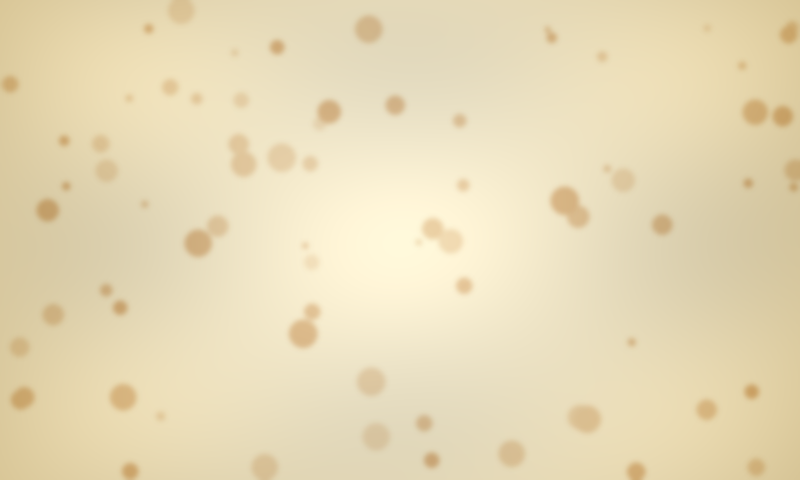
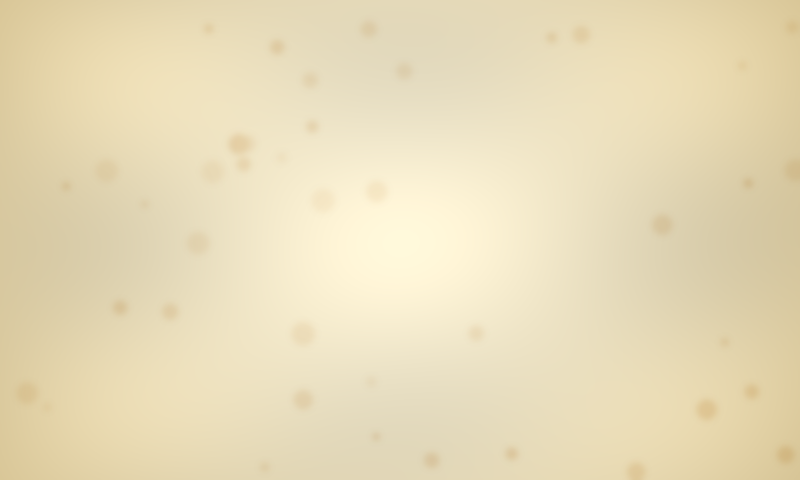
letter: knock out a clean writing area so the script isn't blurry; refresh previews
The aged-paper plate scattered R+G foxing across the whole sheet, including
behind the thin Dancing Script body — the speckle surrounded every stroke
and read as blurry. Fix it the way the other plate themes do:

- Thread clear_rect into draw_letter_border (enrol letter in
  _CLEAR_RECT_PADS) and reset the writing-area rect to a clean pale-cream
  bed (foxing removed, feathered edges, no drawn frame) so the script reads
  crisply. The bed cream is ~6% yellow to match the plate's pale centre, so
  the edge melts into the foxed margins instead of reading as a yellow panel.
- Soften the plate's foxing (sparser, gentler sepia) so the margins read as
  gentle aging rather than an aggressive red/green field.

Docs/previews:
- Regenerate the letter preview and add a grimdark preview + README theme-
  table row (grimdark had no preview/row); refresh the regenerate-previews
  loop to include the recent themes.
- Document the letter writing-area knockout in CLAUDE.md.

https://claude.ai/code/session_01Dp4uiyBV5DsCdFJzkch94B

diff --git a/idle_hours/render_quote.py b/idle_hours/render_quote.py
@@ -11455,7 +11455,8 @@ def _letter_paint_aged_paper(image: Image.Image, width: int, height: int, page_b
                     pixels[px, py] = sepia_a if (px + py) & 1 else sepia_b
 
 
-def draw_letter_border(image: Image.Image, colors: dict) -> None:
+def draw_letter_border(image: Image.Image, colors: dict,
+                       clear_rect: tuple[int, int, int, int] | None = None) -> None:
     """Wax-sealed letter decoration: aged, lightly-crumpled paper ground +
     fold/crumple creases + a pressed oxblood / maroon wax seal in the
     bottom-right corner.
@@ -11535,6 +11536,31 @@ def draw_letter_border(image: Image.Image, colors: dict) -> None:
     else:
         _letter_paint_aged_paper(image, width, height, page_bg, cream_light, sepia_a, sepia_b, rng)
     pixels = image.load()
+
+    # ---- Body-text writing area: clean cream knockout -----------------
+    # The plate scatters R+G foxing across the whole sheet; behind the thin
+    # Dancing Script body that speckle surrounds every stroke and reads as
+    # blurry. When render() threads ``clear_rect`` through, reset that rect to
+    # a clean cream wash (white + a light yellow stipple, no foxing) — the
+    # written area a real letter keeps clear of age spots — feathered at the
+    # edges so it blends into the foxed margins instead of cutting a hard
+    # rectangle. The fold creases and body text paint on top. Same single-call
+    # clear_rect-knockout dispatch ``kanagawa`` / ``cartograph`` / ``anna_atkins``
+    # use, here resetting to cream rather than the panel ground.
+    if clear_rect is not None and page_bg is not None:
+        cx0, cy0, cx1, cy1 = clear_rect
+        feather = 16
+        for py in range(max(0, cy0), min(height - 1, cy1) + 1):
+            for px in range(max(0, cx0), min(width - 1, cx1) + 1):
+                edge_d = min(px - cx0, cx1 - px, py - cy0, cy1 - py)
+                # Feathered border ring: clean with probability rising toward
+                # the interior so the writing area melts into the foxed margin.
+                if edge_d < feather and ((px * 131 + py * 57) % 16) / 16.0 >= edge_d / feather:
+                    continue
+                # ~1/16 yellow (≈6%), matching the plate's pale-cream centre so
+                # the cleaned bed/writing-area tone melts into the surrounding
+                # paper and only the removed foxing distinguishes it.
+                pixels[px, py] = cream_light if BAYER_4x4[py & 3][px & 3] == 0 else page_bg
 
     # ---- Crumple creases ----------------------------------------------
     # Two primary fold creases at the thirds (the folds that put a letter
@@ -11631,7 +11657,10 @@ def draw_letter_border(image: Image.Image, colors: dict) -> None:
                         if ((px * 131 + py * 57) % 16) / 16.0 < keep:
                             pixels[px, py] = page_bg
                     continue
-                pixels[px, py] = cream_light if BAYER_4x4[py & 3][px & 3] < 0.09 * 16 else page_bg
+                # ~1/16 yellow (≈6%), matching the plate's pale-cream centre so
+                # the cleaned bed/writing-area tone melts into the surrounding
+                # paper and only the removed foxing distinguishes it.
+                pixels[px, py] = cream_light if BAYER_4x4[py & 3][px & 3] == 0 else page_bg
 
     # (1) Soft cast shadow on the paper. A stippled disc offset down-right
     # (away from the light), densest at its centre and fading to nothing at
@@ -17651,6 +17680,11 @@ def render(time_str: str, quote_row: dict, width: int, height: int, mode: str = 
         # framed by a doubled white plate rule + corner pin-dots; the 20/12/12
         # pad keeps that rule and the rounded corners clear of the white text.
         "anna_atkins": (20, 12, 12),
+        # letter knocks the writing area back to clean cream (no foxing) so the
+        # thin Dancing Script body doesn't blur against the plate's foxing
+        # speckle; a generous 26/18/18 pad leaves clean margin around the text
+        # even after the 16 px feathered edge, with no drawn frame.
+        "letter": (26, 18, 18),
     }
     if theme in _CLEAR_RECT_PADS and quote_line_boxes:
         clear_pad_x, clear_pad_top, clear_pad_bottom = _CLEAR_RECT_PADS[theme]
@@ -17700,6 +17734,12 @@ def render(time_str: str, quote_row: dict, width: int, height: int, mode: str = 
         # photogram + ferns + labels, then knocks the body rect back to a deep
         # Prussian-blue panel so the white quote text reads over the plate.
         draw_anna_atkins_border(image, colors, clear_rect=clear_rect)
+    elif theme == "letter":
+        # Same single-call dispatch — the letter painter pastes the dithered
+        # aged-paper plate, knocks the writing area back to clean cream so the
+        # thin script reads without foxing speckle, then paints creases + the
+        # wax seal on top.
+        draw_letter_border(image, colors, clear_rect=clear_rect)
     else:
         _paint_theme_border(image, theme, colors)
 

diff --git a/scripts/generate_letter_plate.py b/scripts/generate_letter_plate.py
@@ -77,14 +77,18 @@ def _foxing(img: Image.Image, rng: random.Random) -> None:
     w, h = img.size
     stain = Image.new("L", (w, h), 0)
     sd = ImageDraw.Draw(stain)
-    n = rng.randint(60, 90)
+    # Sparse, soft foxing — a gentle aging at the margins, not a dense speckle.
+    # The body-text writing area is knocked back to clean cream at render time,
+    # so the foxing only needs to texture the borders; keeping it light stops
+    # the margins reading as an aggressive red/green field around the quote.
+    n = rng.randint(34, 48)
     for _ in range(n):
         fx = int(rng.triangular(0, w - 1, rng.choice((0, w - 1))))
         fy = int(rng.triangular(0, h - 1, rng.choice((0, h - 1))))
-        fr = rng.randint(3 * SS, 14 * SS)
-        strength = rng.randint(40, 120)
+        fr = rng.randint(3 * SS, 12 * SS)
+        strength = rng.randint(28, 80)
         sd.ellipse((fx - fr, fy - fr, fx + fr, fy + fr), fill=strength)
-    stain = stain.filter(ImageFilter.GaussianBlur(radius=2.5 * SS))
+    stain = stain.filter(ImageFilter.GaussianBlur(radius=3.0 * SS))
     px = img.load()
     sp = stain.load()
     # Sepia direction: pull green and (more) blue down, leave red high → warm
@@ -94,12 +98,12 @@ def _foxing(img: Image.Image, rng: random.Random) -> None:
             s = sp[x, y]
             if not s:
                 continue
-            a = min(1.0, s / 160.0)
+            a = min(1.0, s / 200.0)
             r, g, b = px[x, y]
             px[x, y] = (
-                max(120, int(r - 35 * a)),
-                max(90, int(g - 70 * a)),
-                max(60, int(b - 95 * a)),
+                max(140, int(r - 28 * a)),
+                max(110, int(g - 55 * a)),
+                max(80, int(b - 80 * a)),
             )
 
 

diff --git a/CLAUDE.md b/CLAUDE.md
@@ -563,7 +563,7 @@ Imports `pick_quote` in-process (`pick_quote_module.select_quote`) and lays out 
   - `outrun` (black ground / white Oxanium body / synthesised-cyan matched-phrase, **1980s synthwave / Outrun sunset** — the ninth theme to bypass the literary layout entirely, dispatching from `render` into its own `render_outrun_frame`. The "neon" counterpart to the cool digital themes (`nightvision` terminal-green, `chrono` JRPG-blue): where those are screens, outrun is a *poster*. Composition layers (deepest → shallowest): (1) `_outrun_paint_sky` — a two-zone per-row Bayer **density-ramp gradient** giving a continuous deep-indigo-navy zenith (blue + a heavy black wash) → pure blue mid-sky → red-leaning **magenta horizon** (blue + red, red capped at 0.36 so it stays a blue-leaning violet rather than tipping into fire-engine red — red out-luminates blue, so an even mix reads hot); the zone seam is placed exactly where the navy ramp reaches pure blue (black density 0) so it's continuous. All the *warm* colour is reserved for the sun, keeping the quote's white-on-cool contrast high. Plus ~70 deterministic white stars (`_OUTRUN_STAR_SEED`) confined to the dark upper sky above the sun cap. (2) `_outrun_paint_grid` — the dark near-black ground (faint-blue Bayer specks) carries the iconic **neon perspective grid**: magenta verticals fanning from a central vanishing point on the horizon and cyan horizontals marching toward the foot with perspective spacing (y = horizon + span·t², so lines pack near the horizon), plus a bright white horizon line with a cyan under-glow. PIL has no per-pixel line colour, so each grid line is plotted via an integer **Bresenham** point list (`_outrun_line_points`) and coloured per-pixel — verticals alternate red/blue (→ magenta), horizontals alternate green/blue (→ cyan) — so the two-tone neon reads solid at panel distance while staying entirely on the Spectra-6 palette. (3) `_outrun_paint_sun` — the **sliced retrowave half-sun**: the disc centre (`_OUTRUN_SUN_CENTER`) sits *below* the horizon so only the upper cap shows as rising from behind the grid; the visible cap carries a yellow→tangerine→magenta-foot vertical gradient mapped across its *visible* height (golden crown via R+Y at density 0.60, tangerine body via the documented R+Y 5/8:3/8 recipe, magenta foot via R+B melting back into the sky), sliced by horizontal **slits** (left unpainted so the sky shows through) that *widen toward the horizon* — the canonical sliced-sun silhouette. (4) `_outrun_paint_quote` — the literary quote floats in the dark upper sky (`_OUTRUN_QUOTE_RECT`) in solid white Oxanium, centred line-by-line via the shared `fit_quote` / `wrap_styled_text` pipeline, with the matched time-phrase painted as a 50/50 green+blue **cyan** stipple (`draw_text_dithered`) — the classic neon accent — while the body stays solid white for maximum legibility on the navy ground. (5) `_outrun_paint_credits` — author (white) + `— title —` (cyan) below the quote in the condensed Antonio poster-credit face the other custom frames reuse, in the clear sky band between the quote and the rising sun. Like `questline` / `chrono` / `marquee`, the digital HH:MM is **never surfaced** — the matched phrase carries the time; `time_str` is `del`-asserted at the top of `render_outrun_frame`. Every raw PixelAccess write is bounds-clipped so the `/api/preview` thumbnail path (down to ~60 px tall) crops the lower composition rather than raising — same defensive pattern as the chrono / diags frames. Fully deterministic (the only RNG is the seeded star field) so re-renders of a given time are byte-identical. Body face is **Oxanium** (Sev Meyer, OFL — a techno / cyberpunk display sans whose squared geometric terminals read as period-correct 1980s retro-future; variable Weight axis, so the matched-phrase `quote_bold` role pins the Bold instance for a real weight step on top of the cyan accent). Deliberately chosen over the more famous **Orbitron** — Orbitron is the canonical synthwave face but is too wide to hold a dense 200-char literary quote at a legible size across a room, whereas Oxanium's narrower proportions keep long lines readable while preserving the neon-future silhouette. Saturation tier `0.7` (black ground — the neon tones need the dark-ground push). Stays in the button-B / auto / random rotation. No `_DEBUG_LABEL_RIGHT_INSET` entry — custom frame, ignores `mode`.)
   - `grimdark` (black void ground / bone-white Cinzel Decorative body / forge-amber matched-phrase / gold Imperial trim, **Warhammer-40K-esque Imperial Gothic** — "in the grim darkness of the far future." A literary-layout theme (not a custom-render frame) with a heavy `draw_grimdark_border` decoration, the militaristic-cathedral / gothic-industrial register of the 40K Imperium. The matched time phrase's red accent is rerouted in `_draw_text_body` to **forge-amber** (R+Y 5/8:3/8 tangerine via the shared 4×4 Bayer threshold — the documented `deco` / `atomic` / `astrarium` recipe) so the time glows like molten metal / a hazard stripe against the black bulkhead, tying it to the gold Imperial trim; a 50/50 R+Y would read as washed-out amber because yellow out-luminates red, so the 3/8 yellow bias drags the perceived hue back onto the warm forge-orange. The oversized opening/closing quote marks render in **gold** blackletter — both `ornament` THEMES slots pin to yellow so `draw_faux_gray_text` collapses to solid gilt (same trick `gothic` uses with red — on the black ground a white `ornament_light` half would wash the gilt to grey). `draw_grimdark_border` lays the rest of the vocabulary on top using solid Spectra-6 inks via ImageDraw primitives only (so it clips silently at `/api/preview` thumbnail sizes rather than indexing a raw `PixelAccess` past the canvas): a **Layer-0 industrial gunmetal plate** (a committed continuous-tone weathered-metal PNG — `idle_hours/assets/grimdark_gunmetal.png`, produced by `scripts/generate_grimdark_plate.py`: a dark charcoal vignette + seeded oxidation blotches that lighten (scuffed/oxidised plate) or darken (grime/shadow) + faint diagonal scratches — Floyd–Steinberg-dithered at render time to the **white+black** sub-palette via `_load_dithered_plate`, so the bulkhead breaks into an organic white-on-black stipple whose local density tracks the metal's tone, the K+W inverse of the cream Y+W washes other themes paint on white grounds; the second consumer of the render-time image-dithering capability `anna_atkins` introduced. Spectra 6 has no grey ink, so the dither *is* how gunmetal exists on the panel. Painted first so the trim / ornaments / quote text all land on top. If the asset is missing, `_grimdark_paint_mottle` synthesises the equivalent — sparse ~4.5% organic white hash-scatter (NOT an ordered Bayer grid, which would read as a regular dot-screen) + seeded lighten/darken blotches — as a deterministic graceful fallback); a **doubled imperial trim** (thick gold outer rule + thin blood-red inner rule, the polychrome banded frame of an ornate reliquary / starship bulkhead hatch — distinct from `gothic`'s red+white doubled rule and `illuminated`'s single-ink doubled rule); a gold **Imperial Aquila** (the double-headed eagle, the single most recognisable Imperium device — a torso diamond, twin outward-facing beaked heads, and two swept wings whose serrated lower edge reads as splayed flight feathers) centred in the top margin; a **Mechanicus cog-skull** (a bone-white skull set inside a gold toothed gear ring — the literal icon of the Adeptus Mechanicus machine-priesthood — flanked by two smaller ossuary skulls) centred in the bottom margin via the `_grimdark_cog` / `_grimdark_skull` helpers; **riveted bulkhead seams** (a vertical column of small gold rivets down each side rail with two embedded Mechanicus cog nodes per side — the servitor / machine-corridor texture, kept in the narrow x≈25 side band well clear of the centred quote column); **corner rivets** (gold hex-bolt discs with a blood centre at the four inner corners — armour-plate fastenings); and **mid-edge studs** (small blood diamonds riveted onto the gold side rules). The Aquila is centred horizontally (clear of the right-aligned `DEBUG MODE` banner) and the trim's right rule leaves ~7 px of clearance (same as `newsprint`), so `grimdark` is intentionally absent from `_DEBUG_LABEL_RIGHT_INSET` — same exemption as `atomic` / `dispatch`. Visually distinct from the rotation's two existing black/white/red themes: `gothic` is an EB-Garamond body + Unifraktur matched phrase under a cathedral-tracery border, and `roman` is Cinzel-everywhere on a white ground with no blackletter — neither shares grimdark's Cinzel-body + Unifraktur-ornament + Aquila/skull/rivet silhouette. Saturation tier `0.7` (dark non-white ground).)
   - `anna_atkins` (deep Prussian-blue cyanotype ground / ghostly white algae-photogram silhouettes / white Libre Caslon Text body / sky-blue matched phrase, **Anna Atkins 1843 botanical cyanotype** — *Photographs of British Algae: Cyanotype Impressions*, the first book ever illustrated with photographs. **The theme that introduces the repo's render-time image-dithering capability** (`dither_image_to_palette` + `_load_dithered_plate`): rather than synthesising every graphic from ImageDraw primitives, a committed *continuous-tone* PNG (`idle_hours/assets/anna_atkins_cyanotype.png`, produced by `scripts/generate_anna_atkins_plate.py`) is Floyd–Steinberg-dithered down to the inks at render time, giving photographic tonal fidelity on the 6-colour panel — the deep blues break into a blue/black stipple, the feathered specimen edges melt through a blue+white "sky-blue" haze, and the bright cores stay white. A literary-layout theme (not a custom-render frame) with a heavy `draw_anna_atkins_border` painter threaded through the `clear_rect`-knockout dispatch the same way `kanagawa` / `cartograph` / `circuit` are. (The committed plate is an *original work in the cyanotype idiom* rather than a museum scan: Atkins's photographs are public domain, but the historical scans live behind image hosts the build environment can't reach, and the point of the asset is to exercise the dithering path, which needs real continuous-tone content — drop a genuine scan in at the same path and it dithers identically. The plate is dithered against only the **white/black/blue** cyanotype sub-palette, not the full Spectra-6 set, so error diffusion can't scatter stray red/green specks across the deep blues; still a strict subset of SPECTRA6 so the final `snap_image_to_palette` is a no-op.) Layers, deepest → shallowest: (1) **Layer 0** — the full-bleed FS-dithered photogram (or, if the asset is missing, the flat blue `page_bg` deepened to Prussian via a blue→black Bayer stipple so the theme still renders); (2) **procedural white fern/algae sprigs** in the four corner margins — crisp 1 px ink-line accents (a curving rachis with pinnate leaflets via `_anna_atkins_fern`) layered over the soft photographic specimens; (3) **handwritten white Latin species labels** in copperplate (Pinyon Script — "Cystoseira fibrosa", "Ptilota plumosa", "Dictyota dichotoma"), slightly rotated and stamped *binary* (an L-mask rotated then pasted solid-white where opaque, so the rotated antialiased edges can't leave a blue halo after palette snapping) the way Atkins captioned each plate in her own hand; (4) a **thin white plate rule** at inset 12 (the mounting-sheet edge); (5) the **body-text knockout** — when `render` supplies `clear_rect`, a deep Prussian-blue rounded panel (solid blue + blue→black Bayer) with a doubled white plate rule and corner pin-dots, so the white quote text reads cleanly over the busy plate. The matched-phrase `accent` is a **yellow sentinel**, not a painted colour: `_draw_text_body` reroutes the matched-phrase yellow to a 50/50 blue+white **sky-blue** stipple (the documented `glacier` recipe), so the time phrase reads as a ghostly cyanotype element (paler, cooler, stippled) distinct from the crisp solid-white body rather than the warm yellow the sentinel would otherwise paint; the sentinel surfaces literally only in the debug-mode banner (yellow-on-blue, legible), the same accent-as-debug-banner pattern `firmament` uses on its navy ground. The oversized opening/closing quote marks render as the same sky-blue stipple (ornament_dark/light = blue/white via `draw_faux_gray_text`). Distinct from the rotation's other blue themes by construction: `blueprint` is a white-ground drafting grid with red registration marks, `glacier` is a white-ground frost-crystal treatment, and `firmament` is a navy *celestial* atlas — anna_atkins is the only *blue-ground photographic* theme. It was the first theme to dither a committed raster image; `grimdark` (white+black gunmetal plate) and `letter` (white/yellow/red/green aged-paper plate) now reuse the same `dither_image_to_palette` + `_load_dithered_plate` path for their Layer-0 backgrounds, each restricted to its own sub-palette and falling back to a synthesised stipple when the asset is absent. Saturation tier `0.7` (deep-blue non-white ground).)
-  - `letter` (cream/white aged-paper ground / black Dancing Script body / sealing-wax-red matched phrase, **wax-sealed handwritten letter** — a quote presented as intimate antique correspondence. A literary-layout theme with a `draw_letter_border` painter rather than a custom-render frame, so the standard fit/wrap/justify pipeline lays out the flowing-script body and the border decorates the margins underneath it. Layers: (1) **Layer-0 aged paper** — a committed continuous-tone aged-paper PNG (`idle_hours/assets/letter_aged_paper.png`, produced by `scripts/generate_letter_plate.py`: a warm cream base + edge-weighted tan vignette + low-frequency fibrous mottle + seeded reddish-brown foxing blobs) Floyd–Steinberg-dithered at render time to the **white/yellow/red/green** sub-palette via `_load_dithered_plate` — the cream body breaks into a W+Y stipple and the browned foxing regions mix R+G into the documented sepia recipe, the photographic-tone reuse of the dithering capability `anna_atkins` introduced (black + blue are excluded from the sub-palette so error diffusion can't scatter hard flecks into clean cream or drift the foxing cool — the crumple creases + wax seal supply their own black as primitives on top). If the asset is missing, `_letter_paint_aged_paper` synthesises the equivalent as a graceful fallback — an *uneven cream tan* (the documented Y+W yellow cream wash, density modulated by a gentle edge vignette + low-amplitude sine mottle + a fine per-pixel grain jitter, ≈9% yellow at centre rising to ≈14% at the margins) + *foxing* (a deterministic seeded scatter of small R+G sepia spots, each a 2×2/3×3 red/green checkerboard block so it averages to rust-brown, biased toward the edges). Either path yields pure Spectra-6 so palette-snap is a no-op. Then the crumple creases below. (2) **Crumple creases** — two horizontal fold creases at the page thirds (faint 1 px black stipple, the envelope folds) plus, **in the synthesised-fallback path only**, a few soft random-angle wrinkles rendered *tonally* (a thin cream ridge + a white highlight relief on the lit side, so they read as light catching a wrinkle rather than as black scratches); the wrinkles are skipped when the committed plate is in use because the plate already carries continuous-tone surface texture and a solid cream ridge over its W+Y stipple reads as a hard streak. All painted only on bare paper/cream and overpainted by the body text the way ink sits over a fold. (3) **The wax seal** in the bottom-right corner (the hero graphic): a pressed bead of dark **oxblood / maroon** wax rendered as a glossy dome lit from the upper-left, seated on a **clean cream bed** — a soft feathered disc knocked out behind the seal that wipes the plate's R+G foxing (leaving a light W+Y cream stipple, the same tone as the surrounding plate so the disc edge stays invisible, the rim thinning the foxing out gradually rather than cutting a hard circle) so the bead and its shadow sit on calm paper the way a pressed seal clears the fibre beneath it, rather than on the busy foxing speckle that otherwise reads as a noisy background around the bead. An irregular scalloped disc (two summed sinusoids vary the rim radius so it reads as hand-pressed wax, not a clean circle), shaded per-pixel via a Bayer ramp anchored on **maroon** (R+K) — pure red survives only on the lit shoulder, white dithers in for a coral gloss at the highlight, and black density climbs past 50% toward the rim so the core shadow deepens to near-black — plus a soft cast shadow stippled onto the paper (offset down-right, fading at its edge; painted on all four paper inks so it stays a coherent soft disc over foxed plate paper instead of leaving foxing specks poking through) and a solid-white specular hotspot, so the bead reads as a raised 3-D blob standing proud of the page. A ring of small beads just inside the rim (each shaded by its dome position — dark dot + a coral highlight on its lit side), and a recessed **hourglass emblem** carved into the centre — the time motif of the clock, each groove a maroon stroke with a coral bevel on its far inner wall so it reads as engraved into the wax — plus a couple of tiny maroon spatter flecks beside the seal for drip character. The seal sits at y≈height-78 / x≈width-72, clear of the centred attribution and the y=14-29 debug-banner band, so `letter` is intentionally absent from `_DEBUG_LABEL_RIGHT_INSET`. The matched time phrase is solid Spectra-6 red (Dancing Script Bold), echoing the seal's lit-red highlight — the one passage the correspondent pressed harder on. Same white/black/red palette shape as `default` / `dispatch` / `saloon` but the script body + fold creases + wax seal give it a wholly different silhouette. Fully deterministic so re-renders of a given time are byte-identical. Saturation tier `0.5`.)
+  - `letter` (cream/white aged-paper ground / black Dancing Script body / sealing-wax-red matched phrase, **wax-sealed handwritten letter** — a quote presented as intimate antique correspondence. A literary-layout theme with a `draw_letter_border` painter rather than a custom-render frame, so the standard fit/wrap/justify pipeline lays out the flowing-script body and the border decorates the margins underneath it. Layers: (1) **Layer-0 aged paper** — a committed continuous-tone aged-paper PNG (`idle_hours/assets/letter_aged_paper.png`, produced by `scripts/generate_letter_plate.py`: a warm cream base + edge-weighted tan vignette + low-frequency fibrous mottle + seeded reddish-brown foxing blobs) Floyd–Steinberg-dithered at render time to the **white/yellow/red/green** sub-palette via `_load_dithered_plate` — the cream body breaks into a W+Y stipple and the browned foxing regions mix R+G into the documented sepia recipe, the photographic-tone reuse of the dithering capability `anna_atkins` introduced (black + blue are excluded from the sub-palette so error diffusion can't scatter hard flecks into clean cream or drift the foxing cool — the crumple creases + wax seal supply their own black as primitives on top). If the asset is missing, `_letter_paint_aged_paper` synthesises the equivalent as a graceful fallback — an *uneven cream tan* (the documented Y+W yellow cream wash, density modulated by a gentle edge vignette + low-amplitude sine mottle + a fine per-pixel grain jitter, ≈9% yellow at centre rising to ≈14% at the margins) + *foxing* (a deterministic seeded scatter of small R+G sepia spots, each a 2×2/3×3 red/green checkerboard block so it averages to rust-brown, biased toward the edges). Either path yields pure Spectra-6 so palette-snap is a no-op. **Writing-area knockout:** when `render` threads `clear_rect` through (the standard literary path — `letter` is enrolled in `_CLEAR_RECT_PADS` at `(26, 18, 18)`), the body-text rect is reset to a clean pale-cream bed (≈6% yellow Bayer matching the plate's centre, foxing removed, feathered edges so it melts into the foxed margins with no drawn frame) so the thin Dancing Script body reads crisply instead of blurring against the plate's foxing speckle — the same `clear_rect`-knockout `kanagawa` / `cartograph` / `anna_atkins` use, here resetting to cream rather than a panel ground. Then the crumple creases below. (2) **Crumple creases** — two horizontal fold creases at the page thirds (faint 1 px black stipple, the envelope folds) plus, **in the synthesised-fallback path only**, a few soft random-angle wrinkles rendered *tonally* (a thin cream ridge + a white highlight relief on the lit side, so they read as light catching a wrinkle rather than as black scratches); the wrinkles are skipped when the committed plate is in use because the plate already carries continuous-tone surface texture and a solid cream ridge over its W+Y stipple reads as a hard streak. All painted only on bare paper/cream and overpainted by the body text the way ink sits over a fold. (3) **The wax seal** in the bottom-right corner (the hero graphic): a pressed bead of dark **oxblood / maroon** wax rendered as a glossy dome lit from the upper-left, seated on a **clean cream bed** — a soft feathered disc knocked out behind the seal that wipes the plate's R+G foxing (leaving a light W+Y cream stipple, the same tone as the surrounding plate so the disc edge stays invisible, the rim thinning the foxing out gradually rather than cutting a hard circle) so the bead and its shadow sit on calm paper the way a pressed seal clears the fibre beneath it, rather than on the busy foxing speckle that otherwise reads as a noisy background around the bead. An irregular scalloped disc (two summed sinusoids vary the rim radius so it reads as hand-pressed wax, not a clean circle), shaded per-pixel via a Bayer ramp anchored on **maroon** (R+K) — pure red survives only on the lit shoulder, white dithers in for a coral gloss at the highlight, and black density climbs past 50% toward the rim so the core shadow deepens to near-black — plus a soft cast shadow stippled onto the paper (offset down-right, fading at its edge; painted on all four paper inks so it stays a coherent soft disc over foxed plate paper instead of leaving foxing specks poking through) and a solid-white specular hotspot, so the bead reads as a raised 3-D blob standing proud of the page. A ring of small beads just inside the rim (each shaded by its dome position — dark dot + a coral highlight on its lit side), and a recessed **hourglass emblem** carved into the centre — the time motif of the clock, each groove a maroon stroke with a coral bevel on its far inner wall so it reads as engraved into the wax — plus a couple of tiny maroon spatter flecks beside the seal for drip character. The seal sits at y≈height-78 / x≈width-72, clear of the centred attribution and the y=14-29 debug-banner band, so `letter` is intentionally absent from `_DEBUG_LABEL_RIGHT_INSET`. The matched time phrase is solid Spectra-6 red (Dancing Script Bold), echoing the seal's lit-red highlight — the one passage the correspondent pressed harder on. Same white/black/red palette shape as `default` / `dispatch` / `saloon` but the script body + fold creases + wax seal give it a wholly different silhouette. Fully deterministic so re-renders of a given time are byte-identical. Saturation tier `0.5`.)
   - `sampler` (cream Aida-cloth ground / black-floss body / red-floss matched phrase, **counted cross-stitch embroidery sampler** — the most mechanically novel theme in the rotation and a custom-render frame (`render_sampler_frame`) that bypasses the literary layout like `questline` / `outrun` / `vitrail`. The defining trick, new to the codebase: **every glyph is rendered as cross-stitch "X" marks**. Text is wrapped and drawn to a small offscreen `"L"` mask in the **Silkscreen** pixel font (5px cap height at size 8, a clean fixed grid), then every set mask pixel is stamped via `_sampler_stitch_x` as a scaled-up `STITCH_PX×STITCH_PX` cell — two short diagonals — onto the cloth (the same "draw-to-mask → iterate mask pixels → write `px[x,y]`" pattern `draw_text_dithered` uses, so cost stays bbox/area-proportional, and every write is bounds-clipped for the `/api/preview` thumbnail path). The body fit loop (`_sampler_paint_quote`) tries stitch sizes 6→3 largest-first and picks the largest whose wrapped block fits the body rect — **layout happens in mask-pixel space (`body_w // size` virtual columns) and is scaled up at stitch time**, so short quotes render in chunky size-6 stitches and dense quotes auto-shrink. The matched time-phrase chunks are stitched in **red floss** (the time signal — no digital HH:MM is surfaced; `time_str` is `del`-asserted at frame entry); the body is black floss, the author·title credits (`_sampler_paint_credits`) are stitched smaller in blue/green floss as the sampler's signature line. Composition furniture, all built from the same stitch primitive: a clean **white Aida ground** with a faint regular yellow weave-grid (`_sampler_paint_aida` — a sparse 1-fleck-per-`WEAVE_PITCH` grid reads as woven cloth without over-tinting the ground; an earlier 1-in-8 Bayer cream wash over-yellowed it and crushed the black-floss contrast), a **stitched vine border** (`_sampler_paint_border` — alternating green-leaf / red-bud stitches around the frame with blue + yellow flower motifs at the corners and mid-edges, surfacing all four chroma inks), and classic **sampler motifs** (`_sampler_paint_motifs` — a red/yellow house, a heart, a bird, two trees in the lower margin) parsed from hardcoded character-grid templates via `_sampler_stamp_motif`. Fully deterministic (no RNG) so re-renders are byte-identical. Body / matched-phrase / ornament all in **Silkscreen** (Jason Kottke, OFL — Regular + Bold), the first stitch-mapped pixel face; distinct from the other two bundled pixel faces (Press Start 2P → questline, Pixelify Sans → chrono). Stays in the button-B / auto / random rotation (it shows a quote — only `diags` is in `RANDOM_EXCLUDED_THEMES`). Saturation tier `0.5` (cream/white ground).)
   - `circuit` (forest-green PCB soldermask / white silkscreen body / gold (yellow) copper matched-phrase, Space Mono — a printed-circuit-board composition: the literary clock rendered as if etched onto the very board that drives the eInk panel. A literary-layout theme (not a custom frame) with a heavy `draw_circuit_border` decoration threaded through the `clear_rect`-knockout dispatch the same way `kanagawa` / `cartograph` are. The flat Spectra-6 green `page_bg` is darkened by a **Layer-0 forest soldermask wash** — half the green pixels flipped to black on the `(x+y)&1` checkerboard → G+K 1:1 deep bottle-green FR-4 (the documented forest-green recipe `herbarium` / `vitrail` use), deliberately distinct from `atomic`, whose 1-in-4 white-on-green Layer 0 lightens the same flat green toward mint. The wash only flips *green* pixels, so it's idempotent across `render`'s two border-painter calls. Over the board: **gold copper traces** (Spectra-6 yellow) routed from the deterministic `_CIRCUIT_TRACES` polylines with rounded `joint="curve"` teardrop corners, hugging the perimeter margins; **plated pads** (gold annular ring + dark drilled centre) at every trace endpoint; **four corner mounting holes** (white silkscreen keep-out ring + dark drill, inset 28 px — the TR hole overlaps the y=14-29 banner band so `circuit` carries a `_DEBUG_LABEL_RIGHT_INSET` entry of 46); a **Y1 quartz-crystal component** (white outline + two pads + label) in the bottom-left margin — the literal timekeeping element on a real board, a quiet nod to what the appliance is; **silkscreen reference designators** (white, `R1`/`R2`/`C1`/`C4`/`U1`/`D2`) beside the pads; and an `IDLE HOURS · REV 2.0` board legend bottom-right. The `clear_rect` knockout resets the body region to clean forest soldermask — wiping any trace / pad / silk that routed across — and frames it with a thin white silkscreen "component outline" rounded rectangle + a pin-1 corner square, so the quote reads as a populated, labelled board section. The matched phrase renders in solid gold (yellow) — the highlighted copper net — and the oversized quote marks collapse onto solid gold (both ornament keys = yellow, the `atomic` / `gothic` trick) so they read as copper against the dark board rather than dithering pale. Space Mono carries the technical-silkscreen register (shared with `nightvision` — a mono is exactly the face a PCB's designators are set in). Saturation tier `0.7` (dark forest-green ground).)
 - **Fonts.** Typography is per-theme, and each non-default theme deliberately picks a face from a different type *family* so the rendered frame's silhouette changes with the theme — not just its palette. `THEME_FONTS` maps each `THEMES` entry to a dict with `quote_regular` / `quote_bold` / `ornament` candidate chains, each a list of path strings OR `(path, variation_name)` tuples. The tuple form targets variable fonts — `load_font` calls `set_variation_by_name(name)` after the truetype load, so e.g. the scholar theme picks Regular/Bold instances from a single variable `Bitter-Variable.ttf` (whose default axis instance is Thin — a missing variation call would render near-invisible hairlines on the panel). Every per-theme chain ends at the Playfair / DejaVu defaults so a missing-font install degrades to the default face instead of dropping to the PIL bitmap fallback. System metadata / debug strips always use DejaVu / Noto / Liberation Sans regardless of theme. Install `apt install fonts-noto-core fonts-dejavu-core` if the bundled fonts aren't found. When every TTF candidate is missing, `load_font` logs a one-shot warning to stderr before returning `ImageFont.load_default()` so a misconfigured install surfaces instead of silently producing an 8-pixel bitmap render.

diff --git a/README.md b/README.md
@@ -306,6 +306,7 @@ Forty-one themes ship built-in, all constrained to the Spectra 6 panel palette (
 | `outrun`      | <img src="idle_hours/assets/previews/outrun.png" width="240" alt="outrun theme preview">           | black       | white | cyan   | Oxanium (techno sans) | 1980s synthwave sunset (neon grid, custom layout) |
 | `circuit`     | <img src="idle_hours/assets/previews/circuit.png" width="240" alt="circuit theme preview">         | forest green | white | gold   | Space Mono (mono)    | Printed circuit board (PCB silkscreen) |
 | `letter`      | <img src="idle_hours/assets/previews/letter.png" width="240" alt="letter theme preview">           | cream/white | black | red    | Dancing Script + Pinyon Script | Wax-sealed handwritten letter |
+| `grimdark`    | <img src="idle_hours/assets/previews/grimdark.png" width="240" alt="grimdark theme preview">       | black       | white | forge-amber | Cinzel Decorative + UnifrakturMaguntia | Warhammer-40K Imperial Gothic (gunmetal bulkhead) |
 | `sampler`     | <img src="idle_hours/assets/previews/sampler.png" width="240" alt="sampler theme preview">         | cream/white | black | red    | Silkscreen (pixel)   | Counted cross-stitch embroidery sampler (custom layout) |
 | `anna_atkins` | <img src="idle_hours/assets/previews/anna_atkins.png" width="240" alt="anna_atkins theme preview"> | Prussian blue | white | sky-blue | Libre Caslon Text + Pinyon Script | Anna Atkins 1843 botanical cyanotype (dithered photogram) |
 | `diags`       | <img src="idle_hours/assets/previews/diags.png" width="240" alt="diags theme preview">             | white       | black | red    | DejaVu Sans          | Calibration / status panel    |
@@ -337,7 +338,7 @@ Button B cycles forward through the list and wraps; the curator web UI at `/api/
 > Regenerate previews: the images under `idle_hours/assets/previews/` can be rebuilt by looping over `render_quote.THEME_ORDER` and calling the `render_quote.py` CLI for a fixed time, e.g.:
 >
 > ```bash
-> for theme in default dark swiss scholar herbarium newsprint nightvision blueprint illuminated gothic bauhaus risograph comic dispatch atomic marker saloon roman alchemy grimoire deco glacier mucha chalkboard placard chanbara lcars fillmore firmament astrarium kanagawa marquee tarot vinyl cartograph diags; do
+> for theme in default dark swiss scholar herbarium newsprint nightvision blueprint illuminated gothic bauhaus risograph comic dispatch atomic marker saloon roman alchemy grimoire deco glacier mucha chalkboard placard chanbara lcars fillmore firmament astrarium kanagawa marquee tarot vinyl cartograph questline chrono outrun circuit letter grimdark sampler anna_atkins diags; do
 >   idle-hours render --time 14:15 --theme "$theme" --mode production \
 >     --output "idle_hours/assets/previews/$theme.png"
 > done
